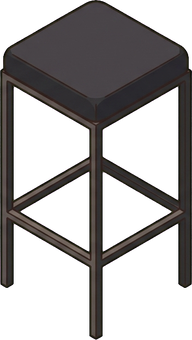
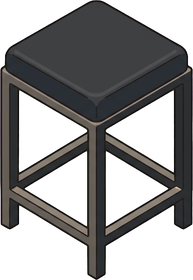
เก้าอี้สูง + ครัวใหม่ · ส่ง specs.json ด้วย

diff --git a/index.html b/index.html
@@ -714,7 +714,8 @@ const DEFS = {
   'fridge-modern':['ตู้เย็น','kitchen','floor',0,0,'wardrobe',{fw:2,fd:3}],
   'fridge-retro':['ตู้เย็นเรโทร','kitchen-old','floor',0,0,'wardrobe',{fw:3,fd:2}],   // แบบการ์ตูน มุมไม่ตรง — เลิกขึ้นกล่อง (หมวด kitchen-old ไม่มีแท็บ) แต่ห้องที่วางไว้แล้วยังเห็น
   'oven-stove':['ตู้เตาอบ','kitchen','floor',0,0,'cook',{fw:2,fd:4,surf:[[0.2,0.3,1.9,3.9,76]]}],
-  'kitchen-island2':['เกาะครัว','kitchen','floor',0,0,'squash',{fw:6,fd:3}],   // แบบไม่มีเก้าอี้ สูง 90 ซม. เท่าเคาน์เตอร์ (specs.json) · เก้าอี้สูงแยกชิ้น
+  'kitchen-island2':['เกาะครัว','kitchen','floor',0,0,'squash',{fw:6,fd:3}],   // แบบไม่มีเก้าอี้ สูง 85 ซม. เท่าเคาน์เตอร์ (specs.json) · เก้าอี้สูงแยกชิ้น
+  'bar-stool':['เก้าอี้สูง','kitchen','floor',0,0,'chair',{fw:2,fd:2}],   // ที่นั่ง 60 ซม. คู่เกาะครัว (specs.json)
   'kitchen-island':['เกาะครัวมีเก้าอี้','kitchen-old','floor',0,0,'squash',{fw:3,fd:2,surf:[[0.1,0,1.9,2,54]]}],
   'wall-cabinet':['ตู้แขวน','kitchen','wall',0,0,'wobble',{w:4,nat:'R'}],
   'dish-shelf':['ชั้นวางจาน','kitchen','wall',0,0,'wobble',{w:4,nat:'L'}],
